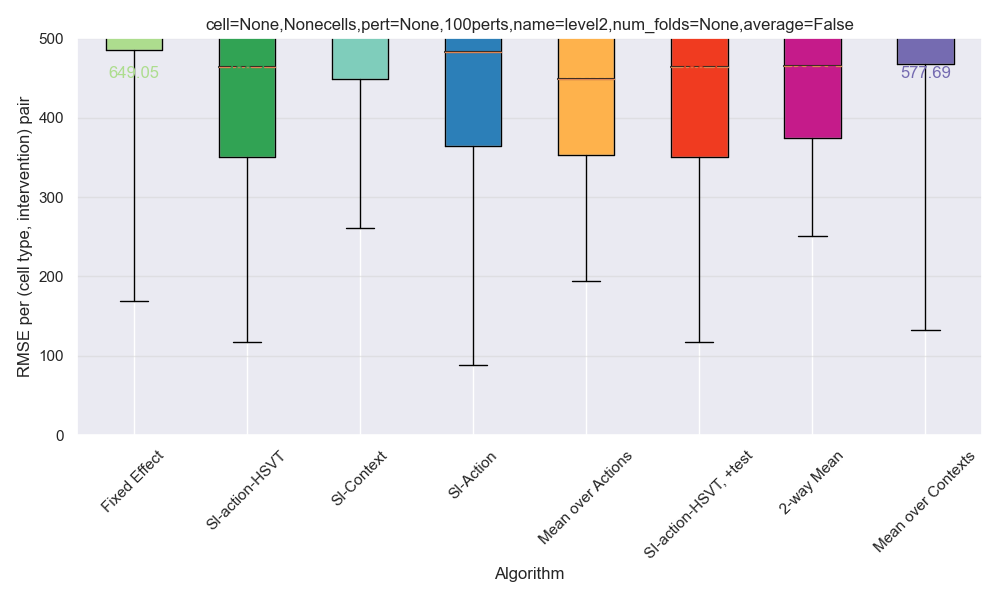
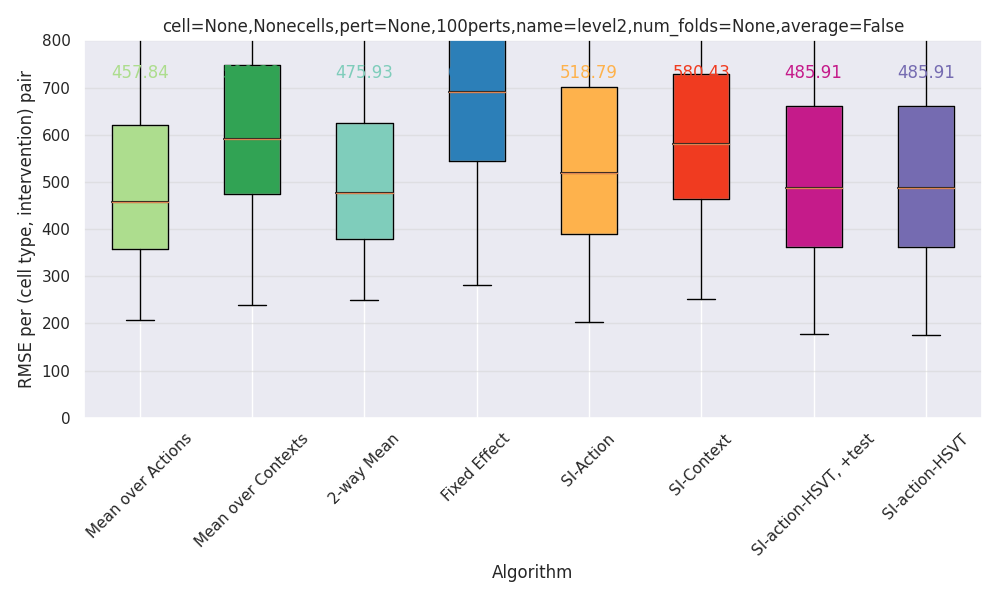
update to have rmse and computation times

diff --git a/evaluation/helpers/prediction_manager.py b/evaluation/helpers/prediction_manager.py
@@ -8,6 +8,7 @@ import ipdb
 from multiprocessing import Pool, cpu_count
 from p_tqdm import p_map
 from src.algorithms import predict_synthetic_intervention_ols, predict_synthetic_intervention_hsvt_ols
+from time import time
 
 
 BLACKLIST_KWARGS = {'verbose', 'multithread', 'overwrite', 'progress'}
@@ -67,6 +68,7 @@ class PredictionManager:
 
         self.prediction_filenames = dict()
         self.statistic_filenames = dict()
+        self.time_filenames = dict()
 
     def predict(
             self,
@@ -74,7 +76,7 @@ class PredictionManager:
             overwrite=False,
             multithread=False,
             **kwargs
-    ) -> List[pd.DataFrame]:
+    ) -> (List[pd.DataFrame], List[np.array]):
         """
         Use an algorithm to predict held-out values from each fold.
 
@@ -95,21 +97,26 @@ class PredictionManager:
 
         # filenames for the results of each fold
         alg_results_filename = os.path.join(self.result_folder, full_alg_name + '.pkl')
+        alg_times_filename = os.path.join(self.result_folder, full_alg_name + '_times.pkl')
         alg_stats_filename = os.path.join(self.result_folder, full_alg_name + '_stats.pkl')
         self.prediction_filenames[full_alg_name] = alg_results_filename
         self.statistic_filenames[full_alg_name] = alg_stats_filename
+        self.time_filenames[full_alg_name] = alg_times_filename
 
         # if results already exist, just load them
         if not overwrite and os.path.exists(alg_results_filename):
             print(f"[PredictionManager.predict] loading predictions for {full_alg_name}")
             prediction_df = pd.read_pickle(alg_results_filename)
+            times_taken = np.loadtxt(alg_times_filename)
         else:
-            print(f"Predicting for {full_alg_name}")
+            print(f"[PredictionManager.predict] Predicting for {full_alg_name}")
 
             def run(p):
                 fold_ix, train_ixs, test_ixs = p
                 training_df = self.gene_expression_df.iloc[train_ixs]
                 targets = self.gene_expression_df.iloc[test_ixs].index
+
+                start_time = time()
                 if alg == predict_synthetic_intervention_hsvt_ols:
                     df, stat_df = alg(training_df, targets, **kwargs)
                     df = df.loc[targets]
@@ -120,7 +127,7 @@ class PredictionManager:
                     stat_df.set_index('fold', append=True, inplace=True)
 
                     assert df.shape == (len(test_ixs), training_df.shape[1])
-                    return df, stat_df
+                    return df, stat_df, time() - start_time
                 else:
                     df = alg(training_df, targets, **kwargs)
                     df = df.loc[targets]
@@ -128,7 +135,7 @@ class PredictionManager:
                     df.set_index('fold', append=True, inplace=True)
 
                     assert df.shape == (len(test_ixs), training_df.shape[1])
-                    return df
+                    return df, time() - start_time
 
             tasks = list(zip(range(self.num_folds), self.fold_train_ixs, self.fold_test_ixs))
 
@@ -136,19 +143,26 @@ class PredictionManager:
                 with Pool(cpu_count()-1) as pool:
                     prediction_dfs = p_map(run, tasks)
             else:
-                prediction_dfs = list(tqdm((run(task) for task in tasks), total=len(tasks)))
+                results = list(tqdm((run(task) for task in tasks), total=len(tasks)))
 
             if alg == predict_synthetic_intervention_hsvt_ols:
-                prediction_dfs, stat_dfs = zip(*prediction_dfs)
+                prediction_dfs, stat_dfs, times_taken = zip(*results)
                 prediction_df = pd.concat(prediction_dfs, axis=0)
                 prediction_df.to_pickle(alg_results_filename)
                 statistic_df = pd.concat(stat_dfs, axis=0)
                 statistic_df.to_pickle(alg_stats_filename)
+                print(f"[PredictionManager.predict] Saving predictions to {alg_results_filename}")
+                print(f"[PredictionManager.predict] Saving stats to {alg_stats_filename}")
             else:
+                prediction_dfs, times_taken = zip(*results)
                 prediction_df = pd.concat(prediction_dfs, axis=0)
                 prediction_df.to_pickle(alg_results_filename)
+                print(f"[PredictionManager.predict] Saving predictions to {alg_results_filename}")
+            times_taken = np.array(times_taken)
+            np.savetxt(alg_times_filename, times_taken)
+            print(f"[PredictionManager.predict] Saving times to {alg_results_filename}")
 
-        return prediction_df
+        return prediction_df, times_taken
 
 
 

diff --git a/evaluation/helpers/evaluation_manager.py b/evaluation/helpers/evaluation_manager.py
@@ -77,6 +77,29 @@ class EvaluationManager:
         res = pd.DataFrame(r2s, index=pd.MultiIndex.from_tuples(index, names=['unit', 'intervention', 'fold_ix', 'alg']))
         return res
 
+    def plot_times(self):
+        alg2times = dict()
+        algs = list(self.prediction_manager.time_filenames.keys())
+
+        for alg in algs:
+            times = np.loadtxt(self.prediction_manager.time_filenames[alg])
+            alg2times[alg_names[alg]] = np.log(times)
+        boxplots(
+            alg2times,
+            boxColors,
+            xlabel='Algorithm',
+            ylabel='Log (# of seconds) per prediction.',
+            title=self.prediction_manager.result_string,
+            top=-3,
+            bottom=-6,
+        )
+        os.makedirs('evaluation/plots', exist_ok=True)
+        filename = f'evaluation/plots/time_boxplot_{self.prediction_manager.result_string}.png'
+        plt.savefig(filename)
+        plt.title("")
+        plt.savefig(os.path.expanduser(f'~/Desktop/cmap-imputation/causal-imputation-time-{self.prediction_manager.result_string}.png'))
+        print(f"Saved to {os.path.abspath(filename)}")
+
     def rmse(self):
         num_rows_per_alg = sum((len(ixs) for ixs in self.prediction_manager.fold_test_ixs))
         num_rows = num_rows_per_alg * len(self.prediction_manager.prediction_filenames)
@@ -84,9 +107,11 @@ class EvaluationManager:
         index = []
 
         ix = 0
-        for alg, prediction_filename in self.prediction_manager.prediction_filenames.items():
+        algs = list(self.prediction_manager.prediction_filenames.keys())
+
+        for alg in algs:
             print(f'[EvaluationManager.rmse] computing rmse for {alg}')
-            predicted_df = pd.read_pickle(prediction_filename)
+            predicted_df = pd.read_pickle(self.prediction_manager.prediction_filenames[alg])
             for fold_ix, test_ixs in enumerate(self.prediction_manager.fold_test_ixs):
                 # get test data that was held out in this fold
                 test_df = self.prediction_manager.gene_expression_df.iloc[test_ixs]
@@ -159,7 +184,8 @@ class EvaluationManager:
 
     def boxplot_rmse(self):
         rmse_df = self.rmse()
-        algs = list(set(rmse_df.index.get_level_values('alg')))
+        algs = list(self.prediction_manager.prediction_filenames.keys())
+        print(algs)
         # algs = list(alg_names.keys())
         r2_dict = {alg_names[alg]: rmse_df.query('alg == @alg').values.flatten() for alg in algs}
         plt.clf()
@@ -169,7 +195,7 @@ class EvaluationManager:
             xlabel='Algorithm',
             ylabel='RMSE per (cell type, intervention) pair',
             bottom=0,
-            top=500,
+            top=800,
             title=self.prediction_manager.result_string,
         )
         os.makedirs('evaluation/plots', exist_ok=True)

diff --git a/processing/convert_to_pickle.py b/processing/convert_to_pickle.py
@@ -1,13 +1,28 @@
 from time import time
 from cmapPy.pandasGEXpress.parse import parse
 from filenames import LINCS2_EPSILON_FILE_GCTX, LINCS2_EPSILON_FILE, _format_cmap
+from filenames import LINCS3_FILE_GCTX, LINCS3_FILE
 
-print('=========================================================')
-print("[processing/convert_to_pickle] Loading Level 2 (original)")
-start = time()
-data = parse(LINCS2_EPSILON_FILE_GCTX).data_df
-data = _format_cmap(data)
-print(f"[processing/convert_to_pickle] Loading/processing took {time() - start} seconds")
-start = time()
-data.to_pickle(LINCS2_EPSILON_FILE)
-print(f"[processing/convert_to_pickle] Saving took {time() - start} seconds")
+LEVEL2 = False
+if LEVEL2:
+    print('=========================================================')
+    print("[processing/convert_to_pickle] Loading Level 2 (original)")
+    start = time()
+    data = parse(LINCS2_EPSILON_FILE_GCTX).data_df
+    data = _format_cmap(data)
+    print(f"[processing/convert_to_pickle] Loading/processing took {time() - start} seconds")
+    start = time()
+    data.to_pickle(LINCS2_EPSILON_FILE)
+    print(f"[processing/convert_to_pickle] Saving took {time() - start} seconds")
+
+LEVEL3 = True
+if LEVEL3:
+    print('=========================================================')
+    print("[processing/convert_to_pickle] Loading Level 2 (original)")
+    start = time()
+    data = parse(LINCS3_FILE_GCTX).data_df
+    data = _format_cmap(data)
+    print(f"[processing/convert_to_pickle] Loading/processing took {time() - start} seconds")
+    start = time()
+    data.to_pickle(LINCS3_FILE)
+    print(f"[processing/convert_to_pickle] Saving took {time() - start} seconds")

diff --git a/filenames.py b/filenames.py
@@ -13,6 +13,7 @@ LINCS2_EPSILON_IMPUTED_FILE = os.path.join(PROCESSED_DATA_FOLDER, 'GSE92742_Broa
 LINCS2_EPSILON_825_FILE = os.path.join(PROCESSED_DATA_FOLDER, 'GSE92742_Broad_LINCS_Level2_GEX_epsilon_n1269922x978_825genes.pkl')
 
 LINCS3_FILE_GCTX = os.path.join(RAW_DATA_FOLDER, 'GSE92742_Broad_LINCS_Level3_INF_mlr12k_n1319138x12328.gctx')
+LINCS3_FILE = os.path.join(RAW_DATA_FOLDER, 'GSE92742_Broad_LINCS_Level3_INF_mlr12k_n1319138x12328.pkl')
 LINCS3_PRUNED_FILE = os.path.join(PROCESSED_DATA_FOLDER, 'GSE92742_Broad_LINCS_Level3_INF_mlr12k_n1319138x12328_pruned.pkl')
 
 CELL_INFO_FILE = os.path.join(RAW_DATA_FOLDER, 'GSE92742_Broad_LINCS_cell_info.txt')

diff --git a/evaluation/vary_perturbation_block.py b/evaluation/vary_perturbation_block.py
@@ -26,7 +26,7 @@ def run(name, average, num_perts):
     )
     pm.predict(impute_unit_mean, overwrite=False)
     pm.predict(impute_intervention_mean, overwrite=False)
-    pm.predict(impute_two_way_mean)
+    pm.predict(impute_two_way_mean, overwrite=False)
     pm.predict(predict_intervention_fixed_effect, control_intervention='DMSO', overwrite=False)
     pm.predict(
         predict_synthetic_intervention_ols,
@@ -75,6 +75,7 @@ def run(name, average, num_perts):
     em.boxplot()
     em.boxplot_rmse()
     em.boxplot_per_intervention()
+    em.plot_times()
     # em.statistic_vs_best()
 
     return r
